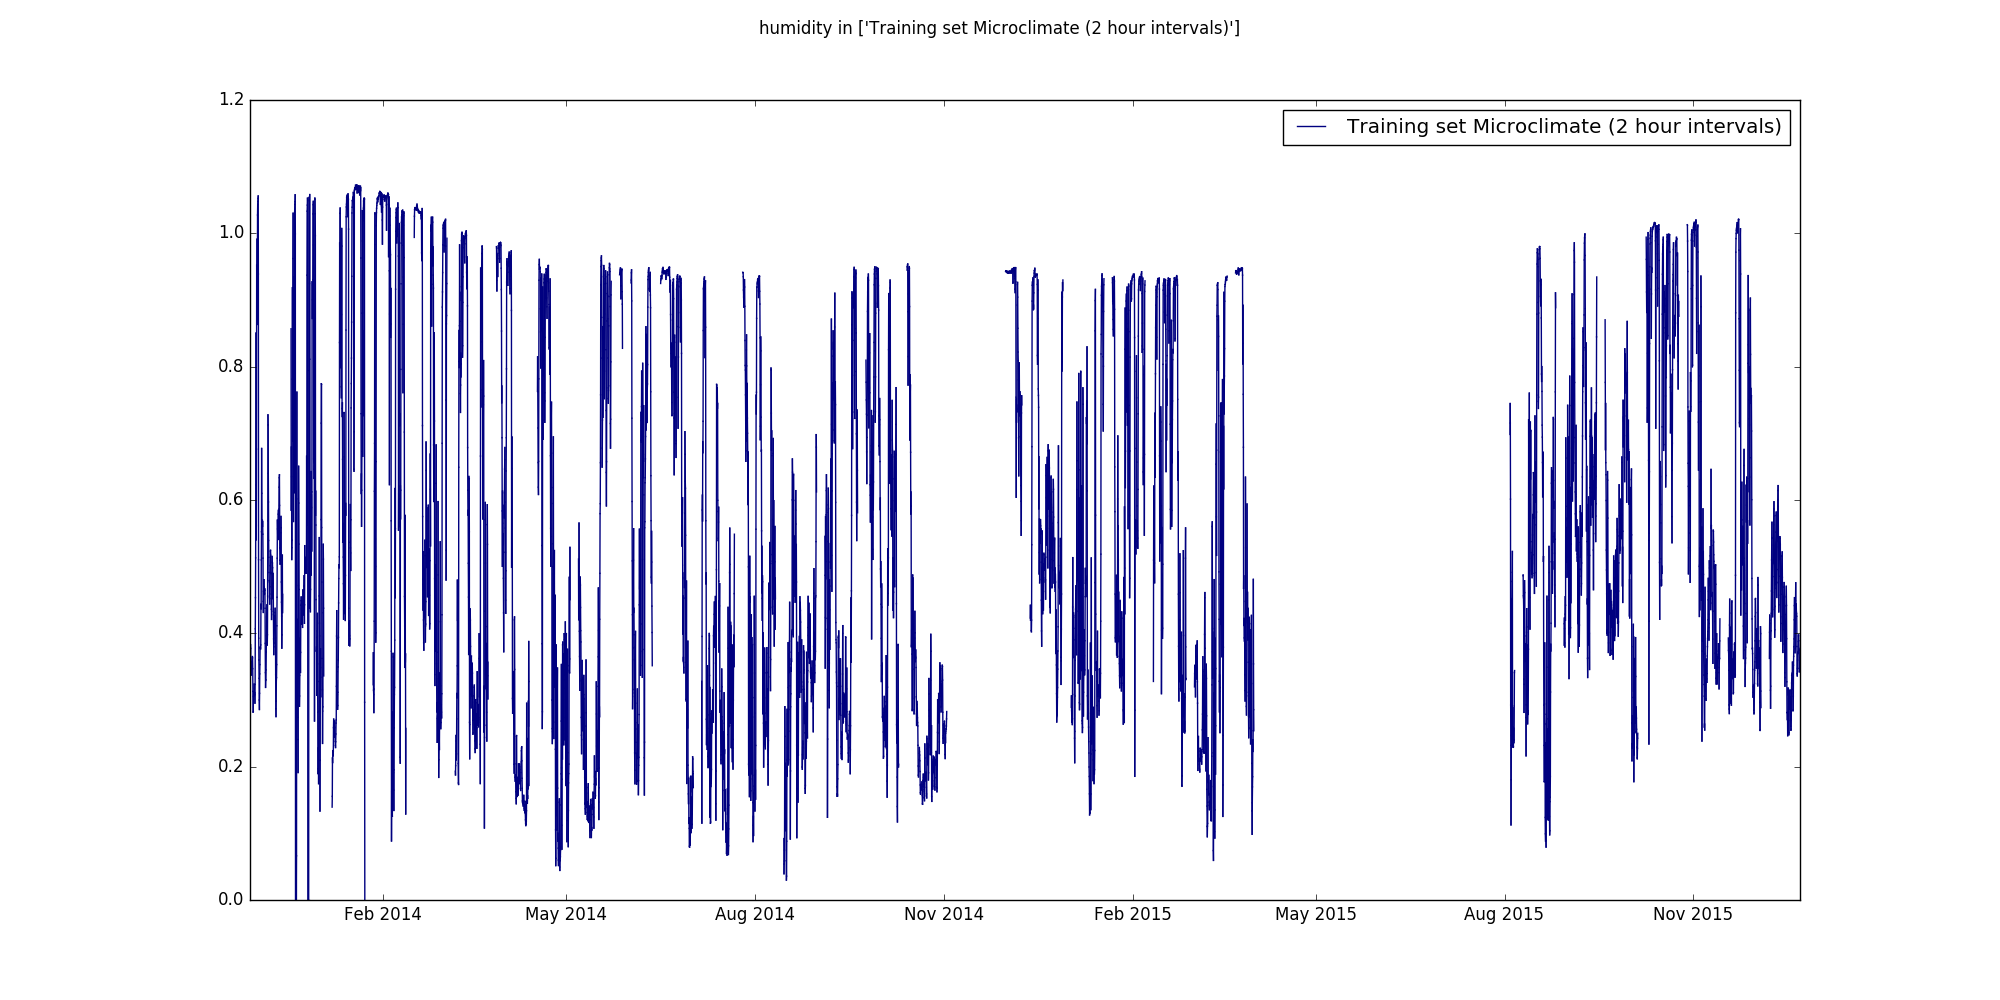
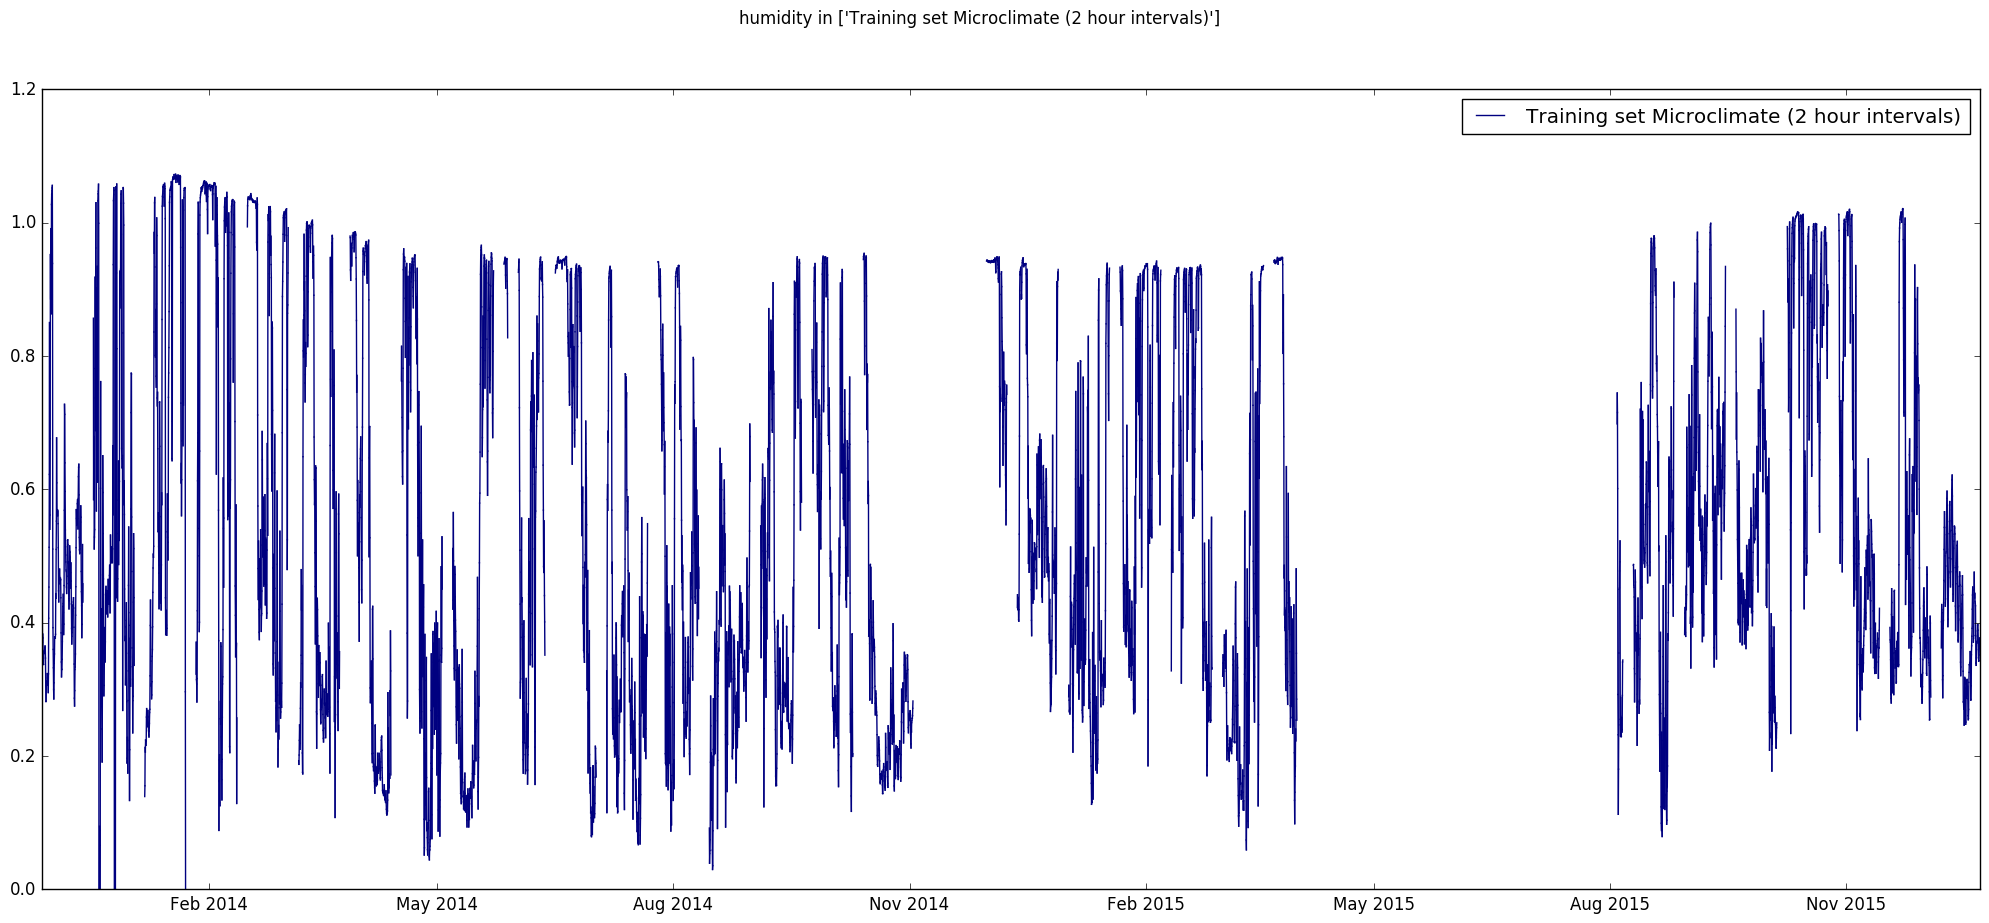
Fixed micro_features_plot figure size. Add cross_validation_training.py

Changed region(s): [[0.0, 0.182, 0.9975, 1.0], [0.0, 0.091, 0.9975, 0.1517], [0.3741, 0.0, 0.6234, 0.0303]]

diff --git a/plot_features_micro.py b/plot_features_micro.py
@@ -10,7 +10,7 @@ def plot_one_feature(plot_files, all_file_param, dataset_path, feature):
 
     # Initiate the plot.
     cmap = plt.get_cmap('jet_r')
-    plt.figure(figsize=(20, 10))
+    plt.figure(figsize=(25, 10))
     # plot_for_legend = plt.subplot()
 
     # Color setup for single file.
@@ -55,7 +55,7 @@ def plot_one_feature(plot_files, all_file_param, dataset_path, feature):
 
     plt.legend(plot_files)
     plt.suptitle(feature + ' in ' + str(plot_files))
-    plt.savefig('./micro_features_plot/' + feature + '.png')
+    plt.savefig('./micro_features_plot/' + feature + '.png', bbox_inches='tight')
 
 def main():
     # Read the dataset.
@@ -68,10 +68,7 @@ def main():
     #               'Training set Microclimate (5 minute intervals)']
 
     # Set up features for micro files.
-    path = dataset_path + plot_files[0] + '.csv'
-    df_header = pd.read_csv(path, header=None, nrows=1)
-    micro_features = df_header.values[0][1:]
-    print micro_features
+    micro_features = read_dataset.set_features(dataset_path, plot_files)
 
     for feature in micro_features:
         plot_one_feature(plot_files, all_file_param, dataset_path, feature)

diff --git a/cross_validation_training.py b/cross_validation_training.py
@@ -1,0 +1,22 @@
+import numpy as np
+import pandas as pd
+import datetime
+import matplotlib.pyplot as plt
+
+import read_dataset
+
+def main():
+    # Read the dataset.
+    dataset_path = './dataset/'
+    dataset_file_path = './dataset_file_path.csv'
+    df_path = pd.read_csv(dataset_file_path)
+    all_file_param = read_dataset.read_all_dataset(df_path)
+    plot_files = ['Training set Microclimate (2 hour intervals)']
+    # plot_files = ['Training set Microclimate (2 hour intervals)',
+    #               'Training set Microclimate (5 minute intervals)']
+
+    # Set up features for micro files.
+    micro_features = read_dataset.set_features(dataset_path, plot_files)
+
+
+main()

diff --git a/read_dataset.py b/read_dataset.py
@@ -123,3 +123,9 @@ def read_all_dataset(path):
         file_param.get_param(row)
         all_file_param.append(file_param)
     return all_file_param
+
+def set_features(dataset_path, plot_files):
+    path = dataset_path + plot_files[0] + '.csv'
+    df_header = pd.read_csv(path, header=None, nrows=1)
+    micro_features = df_header.values[0][1:]
+    return micro_features
